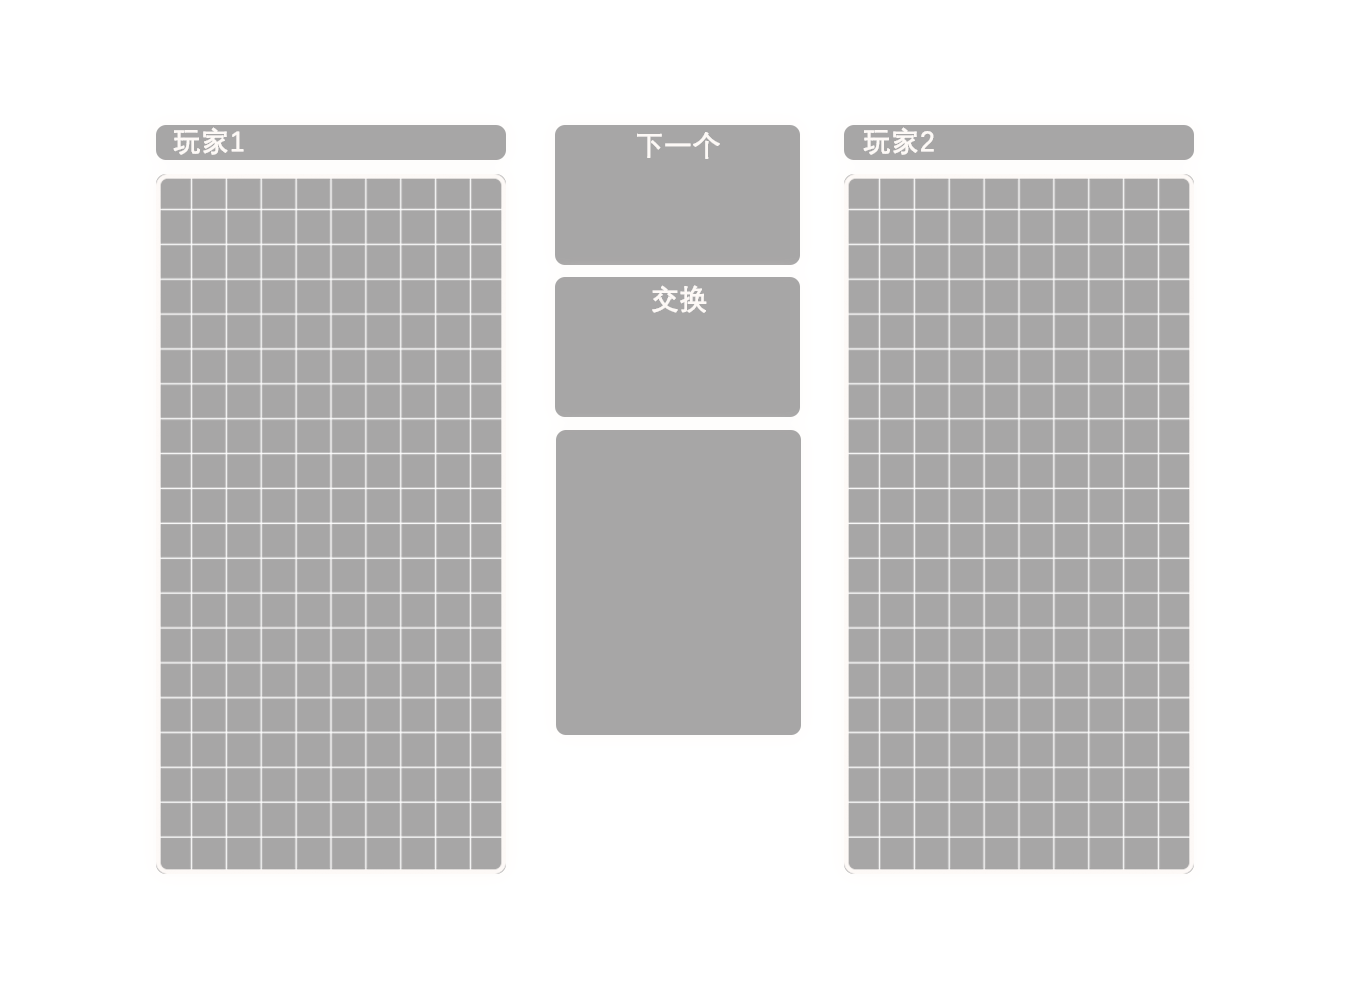
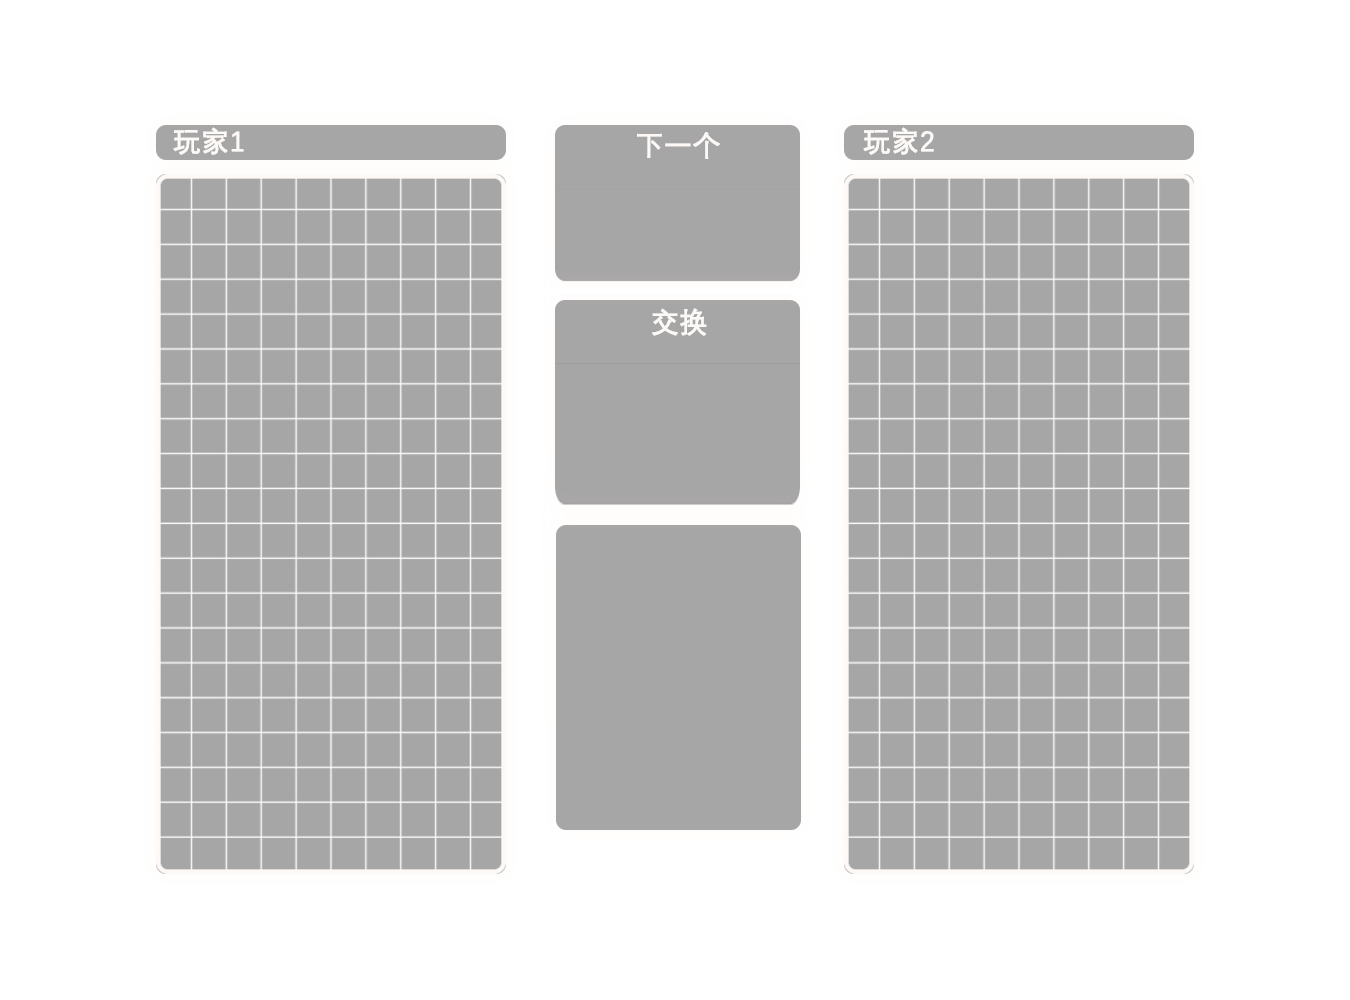
update

diff --git a/Def.h b/Def.h
@@ -14,15 +14,15 @@
 #define  P2_STAGE_CORNER_X		844
 #define  P2_STAGE_CORNER_Y		174
 #define  P1_NXET_CORNER_X		570
-#define  P1_NXET_CORNER_Y		127
+#define  P1_NXET_CORNER_Y		135
 #define  P2_NXET_CORNER_X		720
-#define  P2_NXET_CORNER_Y		127
+#define  P2_NXET_CORNER_Y		135
 #define  P1_SCORE_CORNER_X		366
 #define  P1_SCORE_CORNER_Y		110
 #define  P2_SCORE_CORNER_X		1195
 #define  P2_SCORE_CORNER_Y		110
-#define  HOLD_CORNER_X			660
-#define  HOLD_CORNER_Y			275
+#define  HOLD_CORNER_X			650
+#define  HOLD_CORNER_Y			350
 
 using namespace sf;
 
@@ -30,4 +30,3 @@ extern class Game;
 extern class Tetris;
 extern class Square;
 extern int Figures[7][4];
-extern Square holdSquare;

diff --git a/Square.cpp b/Square.cpp
@@ -77,13 +77,19 @@ void Square::setShape(int shape)
 		if (Figures[shape][i] == 5)
 			mid = i;
 	}
-	updata();
+	update();
 }
 
 void Square::setPosition(int x, int y)
 {
+	int dx = x - this->Pos.x;
+	int dy = y - this->Pos.y;
 	this->Pos = { x,y };
-	updata();
+	for (int i = 0; i < 4; i++)
+	{
+		squarePos[i].x += dx;
+		squarePos[i].y += dy;
+	}
 }
 
 void Square::Rotate()
@@ -96,10 +102,10 @@ void Square::Rotate()
 		squareShape[i].x = p.x - x;
 		squareShape[i].y = p.y + y;
 	}
-	updata();
+	update();
 }
 
-void Square::updata()
+void Square::update()
 {
 	int min_x = 3, min_y = 3, max_x = 0, max_y = 0;
 	for (int i = 0; i < 4; i++)
